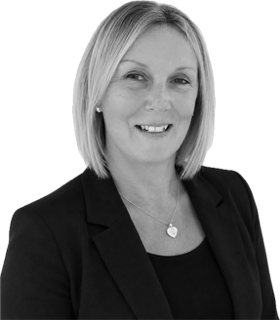
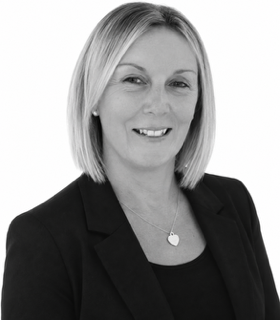
Apply final Curabel client feedback and contact updates

diff --git a/src/components/footer.tsx b/src/components/footer.tsx
@@ -6,7 +6,7 @@ import { navigation } from "@/lib/content";
 export function Footer() {
   const companyLinkedInUrl = getCompanyLinkedInUrl();
   return <footer className="site-footer"><div className="container">
-    <div className="footer-main"><div className="footer-brand"><a href="#home" className="brand-link" aria-label="Curabel Complex Care Group — back to top"><Wordmark /></a>{companyLinkedInUrl && <a className="footer-social-link" href={companyLinkedInUrl} target="_blank" rel="noopener noreferrer" aria-label="Curabel Complex Care Group on LinkedIn (opens in a new tab)"><svg width="21" height="21" viewBox="0 0 24 24" fill="none" stroke="currentColor" strokeWidth="1.6" aria-hidden="true"><rect x="3" y="3" width="18" height="18" rx="2" /><path d="M7 10v7M11 17v-7M11 13a3 3 0 0 1 6 0v4" /><circle cx="7" cy="7" r=".5" fill="currentColor" /></svg></a>}<p>Specialist complex care for children and young people, supporting families and brighter futures.</p></div><div className="footer-column"><p className="eyebrow">EXPLORE</p>{navigation.slice(0, 3).map(item => <a key={item.href} href={item.href}>{item.label}</a>)}</div><div className="footer-column"><p className="eyebrow">CONNECT</p><a href="#professionals">For professionals</a><EnquiryButton type="Careers enquiry" className="footer-link" arrow={false}>Careers</EnquiryButton><EnquiryButton className="footer-link" arrow={false}>Contact & referrals</EnquiryButton></div><div className="footer-contact"><p className="eyebrow">OUR OFFICE</p><address><span>Curabel Complex Care Group Ltd</span><br />Hickman Building, Runway East<br />2 Whitechapel Road<br />London, E1 1EW<br />United Kingdom</address><a className="footer-phone" href="tel:+443338805696">0333 880 5696</a><div className="footer-note"><span className="status-dot" /><p>Thoughtful care.<br />Meaningful connections.<br />Brighter possibilities.</p></div></div></div>
+    <div className="footer-main"><div className="footer-brand"><a href="#home" className="brand-link" aria-label="Curabel Complex Care Group — back to top"><Wordmark /></a>{companyLinkedInUrl && <a className="footer-social-link" href={companyLinkedInUrl} target="_blank" rel="noopener noreferrer" aria-label="Curabel Complex Care Group on LinkedIn (opens in a new tab)"><svg width="21" height="21" viewBox="0 0 24 24" fill="none" stroke="currentColor" strokeWidth="1.6" aria-hidden="true"><rect x="3" y="3" width="18" height="18" rx="2" /><path d="M7 10v7M11 17v-7M11 13a3 3 0 0 1 6 0v4" /><circle cx="7" cy="7" r=".5" fill="currentColor" /></svg></a>}<p>Specialist complex care for children and young people, supporting families and brighter futures.</p></div><div className="footer-column"><p className="eyebrow">EXPLORE</p>{navigation.slice(0, 3).map(item => <a key={item.href} href={item.href}>{item.label}</a>)}</div><div className="footer-column"><p className="eyebrow">CONNECT</p><a href="#professionals">For professionals</a><EnquiryButton type="Careers enquiry" className="footer-link" arrow={false}>Careers</EnquiryButton><EnquiryButton className="footer-link" arrow={false}>Contact & referrals</EnquiryButton></div><div className="footer-contact"><p className="eyebrow">OUR OFFICE</p><address><span>Curabel Complex Care Group Ltd</span><br />Hickman Building, Runway East<br />2 Whitechapel Road<br />London, E1 1EW<br />United Kingdom</address><a className="footer-phone" href="tel:+443338805696">0333 880 5696</a><a className="footer-email" href="mailto:enquiries@curabelcomplexcare.co.uk">enquiries@<wbr />curabelcomplexcare.co.uk</a><div className="footer-note"><span className="status-dot" /><p>Thoughtful care.<br />Meaningful connections.<br />Brighter possibilities.</p></div></div></div>
     <div className="footer-bottom"><p>© {new Date().getFullYear()} Curabel Complex Care Group Ltd.</p><div><PolicyButton type="Privacy" /><PolicyButton type="Accessibility" /></div><span>HOMEPAGE DESIGN PREVIEW</span></div>
     <p className="stock-disclosure">Photography is illustrative and does not depict Curabel patients, staff or facilities. Service availability is awaiting confirmation.</p>
   </div></footer>;

diff --git a/src/app/page.tsx b/src/app/page.tsx
@@ -13,7 +13,7 @@ export default function Home() {
     <PageMotion />
     <main id="main">
       <section id="home" className="hero container" aria-labelledby="hero-title">
-        <div className="hero-copy"><p className="eyebrow"><span className="status-dot" /> CHILDREN • FAMILIES • COMMUNITIES</p><h1 id="hero-title"><span className="hero-line">Specialist care.</span><span className="hero-line">Familiar surroundings.</span><em className="hero-line">Brighter futures.</em></h1><p className="hero-description">Personalised complex care for children and young people, combining clinical expertise with compassionate support in the comfort of home.</p><div className="hero-actions"><a className="button button-primary" href="#services">Explore our care <ArrowUpRight size={17} aria-hidden="true" /></a><EnquiryButton type="Professional referral" className="text-link">Make a referral</EnquiryButton></div><div className="hero-footnote"><span className="fine-line" /><span>For your child. For your family. For everyday life.</span></div></div>
+        <div className="hero-copy"><p className="eyebrow"><span className="status-dot" /> CHILDREN • FAMILIES • COMMUNITIES</p><h1 id="hero-title"><span className="hero-line">Specialist care.</span><span className="hero-line">Familiar surroundings.</span><em className="hero-line">Brighter futures.</em></h1><p className="hero-description">Personalised complex care for children and young people, combining clinical expertise with compassionate support and comfort in their own home.</p><div className="hero-actions"><a className="button button-primary" href="#services">Explore our care <ArrowUpRight size={17} aria-hidden="true" /></a><EnquiryButton type="Professional referral" className="text-link">Make a referral</EnquiryButton></div><div className="hero-footnote"><span className="fine-line" /><span>For your child. For your family. For everyday life.</span></div></div>
         <figure className="hero-figure"><div className="hero-image-wrap"><Image src="/images/family-reading.webp" alt="A mother and her young daughter sharing a story on the sofa at home" fill preload sizes="(max-width: 700px) 90vw, (max-width: 1099px) 43vw, 550px" className="hero-image" /><div className="image-tag"><span className="status-dot" /> AT HOME, WHERE THEY BELONG.</div></div><figcaption><span>Room for the moments that matter.</span><span>ILLUSTRATIVE PHOTOGRAPHY</span></figcaption></figure>
       </section>
 

diff --git a/src/components/client-sections.tsx b/src/components/client-sections.tsx
@@ -23,8 +23,8 @@ export function WhyCurabel() {
 
 export function ClinicalDirector() {
   const directors = [
-    { name: "Caroline McKnight" as const, title: "Registered Children's Nurse | Clinical Director", image: "/images/caroline.png", summary: "Caroline brings 28 years of paediatric nursing experience across the NHS, independent healthcare and social care. Her approach centres on strong clinical governance, safeguarding and the voice of every child.", paragraphs: directorStatement },
-    { name: "Joel Alter" as const, title: "Director of Operations", image: "/images/joel-alter.png", summary: "Joel brings extensive experience in recruitment, workforce management and business operations. At Curabel, he oversees business strategy, operational development, recruitment and commercial growth.", paragraphs: joelBiography },
+    { name: "Caroline McKnight" as const, email: "caroline.mcknight@curabelcomplexcare.co.uk", title: "Registered Children's Nurse | Clinical Director", image: "/images/caroline.png", summary: "Caroline brings 28 years of paediatric nursing experience across the NHS, independent healthcare and social care. Her approach centres on strong clinical governance, safeguarding and the voice of every child.", paragraphs: directorStatement },
+    { name: "Joel Alter" as const, email: "joel.alter@curabelcomplexcare.co.uk", title: "Director of Operations", image: "/images/joel-alter.png", summary: "Joel brings extensive experience in recruitment, workforce management and business operations. At Curabel, he oversees business strategy, operational development, recruitment and commercial growth.", paragraphs: joelBiography },
   ];
   return <section id="leadership" className="section container director-section" aria-labelledby="leadership-title">
     <p className="eyebrow section-label">04 / CLINICAL LEADERSHIP</p>
@@ -40,6 +40,7 @@ export function ClinicalDirector() {
         <div className="director-copy">
           <div className="director-name-row"><h3>{director.name}</h3><DirectorLink name={director.name} /></div>
           <p className="director-title">{director.title}</p>
+          <a className="director-email" href={`mailto:${director.email}`}>{director.email}</a>
           <p className="director-summary">{director.summary}</p>
           <details className="director-full-profile">
             <summary aria-label={`Read full profile of ${director.name}`}>Read full profile</summary>

diff --git a/src/app/globals.css b/src/app/globals.css
@@ -90,6 +90,7 @@ h1 { font-size: clamp(52px, 5.2vw, 75px); line-height: 1.025; letter-spacing: -.
 .image-tag { position: absolute; bottom: 25px; left: 25px; display: flex; align-items: center; gap: 9px; padding: 12px 15px; background: #faf9f5f0; border-radius: 2px; font-size: 8px; font-weight: 500; letter-spacing: .11em; }
 .hero-figure figcaption { display: flex; justify-content: space-between; align-items: center; gap: 10px; margin-top: 13px; color: #506b86; font-family: var(--serif); font-size: 15px; font-style: italic; }
 .hero-figure figcaption span:last-child { font-family: "Manrope", sans-serif; font-size: 7px; letter-spacing: .11em; font-style: normal; }
+@media (min-width: 1100px) { .hero-figure figcaption { flex-wrap: wrap; } .hero-figure figcaption span:first-child { white-space: nowrap; } }
 .principles-strip { border-top: 1px solid var(--line); border-bottom: 1px solid var(--line); background: #eaf5ff; }
 .principles-inner { display: grid; grid-template-columns: 1.15fr 1fr 1fr 1fr; padding-block: 29px; align-items: center; }
 .principles-inner > p { font-size: 12px; line-height: 1.75; color: #506b86; }
@@ -433,6 +434,11 @@ h1 em,h2 em { font-style: normal; }
 .director-portrait p { font-size: 13px; }
 .director-copy h3 { font-size: 28px; font-weight: 600; line-height: 1.3; }
 .director-title { color: #07509f; font-size: 15px; margin-top: 12px; }
+.director-email,.footer-email { display: block; width: fit-content; max-width: 100%; min-height: 44px; padding-block: 10px; font-size: 14px; line-height: 1.7; overflow-wrap: anywhere; transition: color 230ms; }
+.director-email { color: #07509f; }
+.footer-email { color: #dce8f4; }
+.director-email:is(:hover,:focus-visible),.footer-email:is(:hover,:focus-visible) { text-decoration: underline; text-underline-offset: 4px; }
+.footer-email:hover { color: white; }
 .director-name-row { display: flex; align-items: center; justify-content: space-between; gap: 8px 16px; flex-wrap: wrap; }
 .director-link { max-width: 100%; margin: 0; min-height: 44px; font-size: 12px; color: #07509f; gap: 7px; border: 0; background-image: none; flex-shrink: 0; }
 .director-link:is(:hover,:focus-visible) { color: #0965b8; }

diff --git a/tests/client-sections.spec.ts b/tests/client-sections.spec.ts
@@ -7,6 +7,17 @@ test("client sections preserve full content and fit requested viewport sizes", a
     await page.setViewportSize({ width, height: 1000 });
     await page.goto("/", { waitUntil: "networkidle" });
     await expect(page.locator("#leadership")).toHaveCount(1);
+    await expect(page.locator(".hero-description")).toHaveText("Personalised complex care for children and young people, combining clinical expertise with compassionate support and comfort in their own home.");
+    for (const email of ["caroline.mcknight@curabelcomplexcare.co.uk", "joel.alter@curabelcomplexcare.co.uk", "enquiries@curabelcomplexcare.co.uk"]) {
+      await expect(page.getByRole("link", { name: email, exact: true })).toHaveAttribute("href", `mailto:${email}`);
+    }
+    await expect(page.locator(".footer-phone + .footer-email")).toHaveText("enquiries@curabelcomplexcare.co.uk");
+    if (width === 1440) {
+      expect(await page.locator(".hero-figure figcaption span").first().evaluate(el => {
+        const range = document.createRange(); range.selectNodeContents(el);
+        return range.getClientRects().length;
+      })).toBe(1);
+    }
     await expect(page.locator(".director-profile").first().locator(".director-statement p")).toHaveText(directorStatement);
     await expect(page.locator(".director-profile").last().locator(".director-statement p")).toHaveText(joelBiography);
     for (const [name, url] of [["Caroline McKnight", "https://www.linkedin.com/in/caroline-mcknight-31a1abb1/"], ["Joel Alter", "https://www.linkedin.com/in/joel-alter-46a8486a/"]]) {
